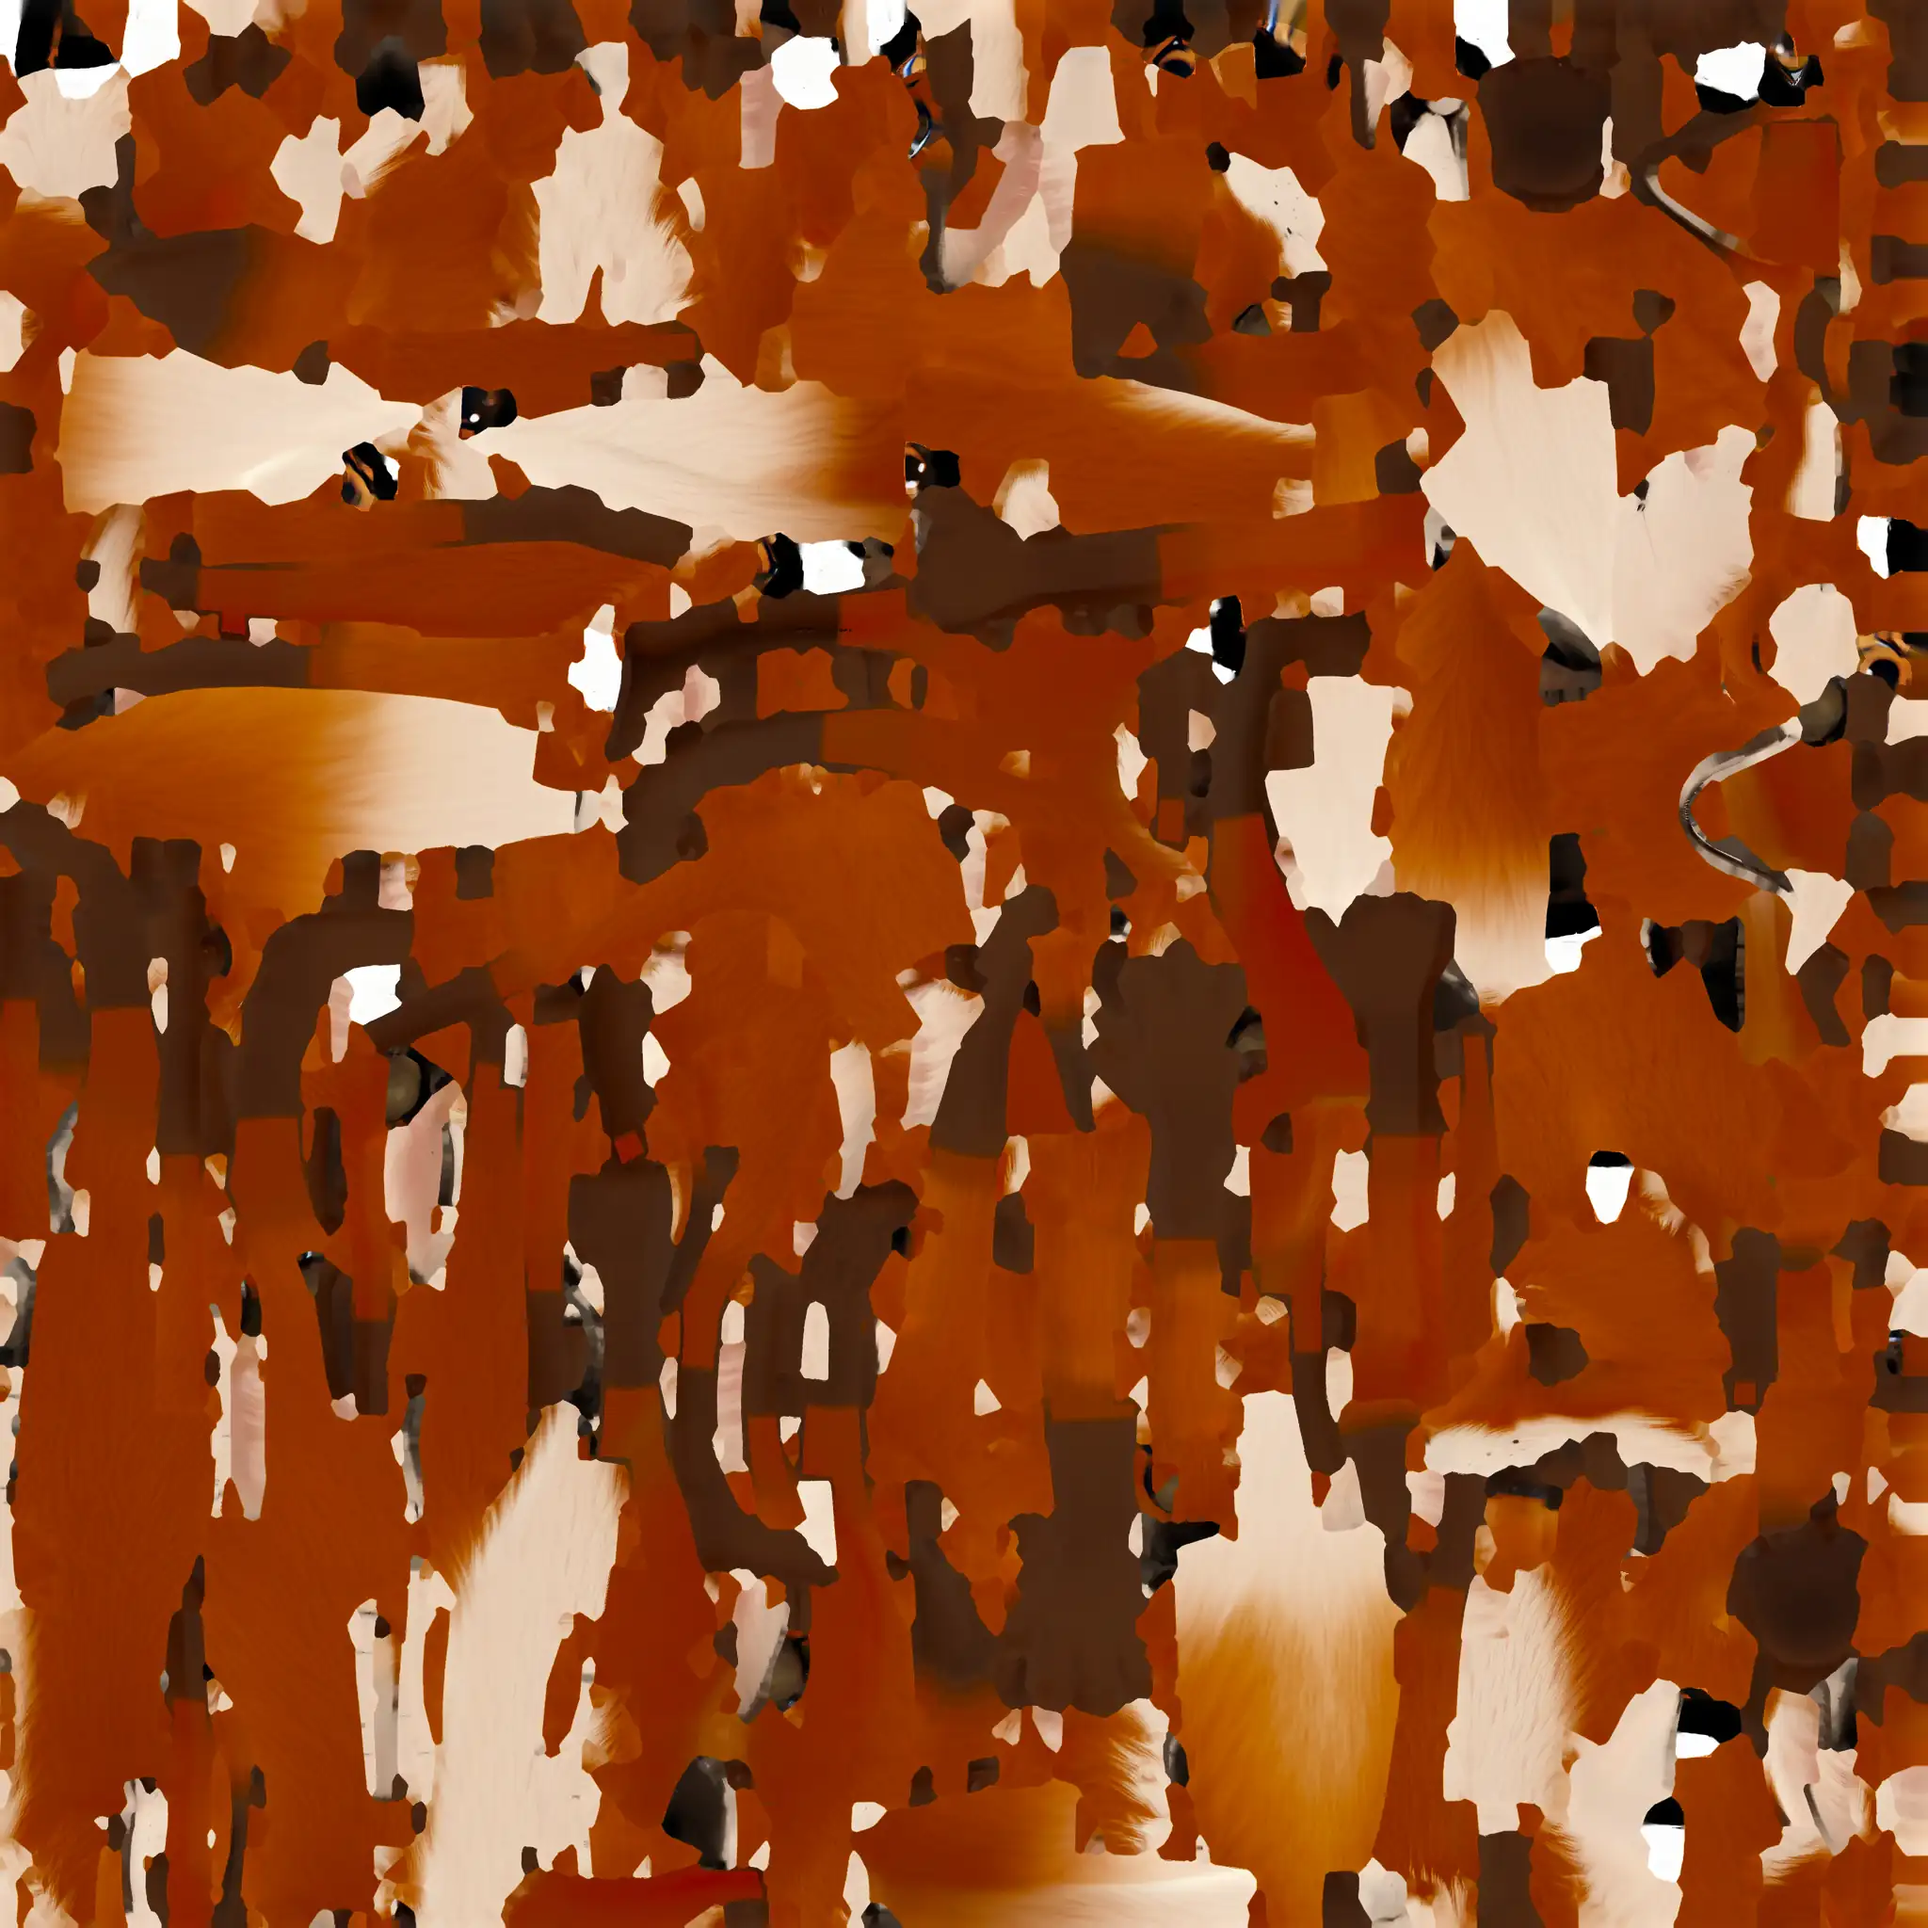
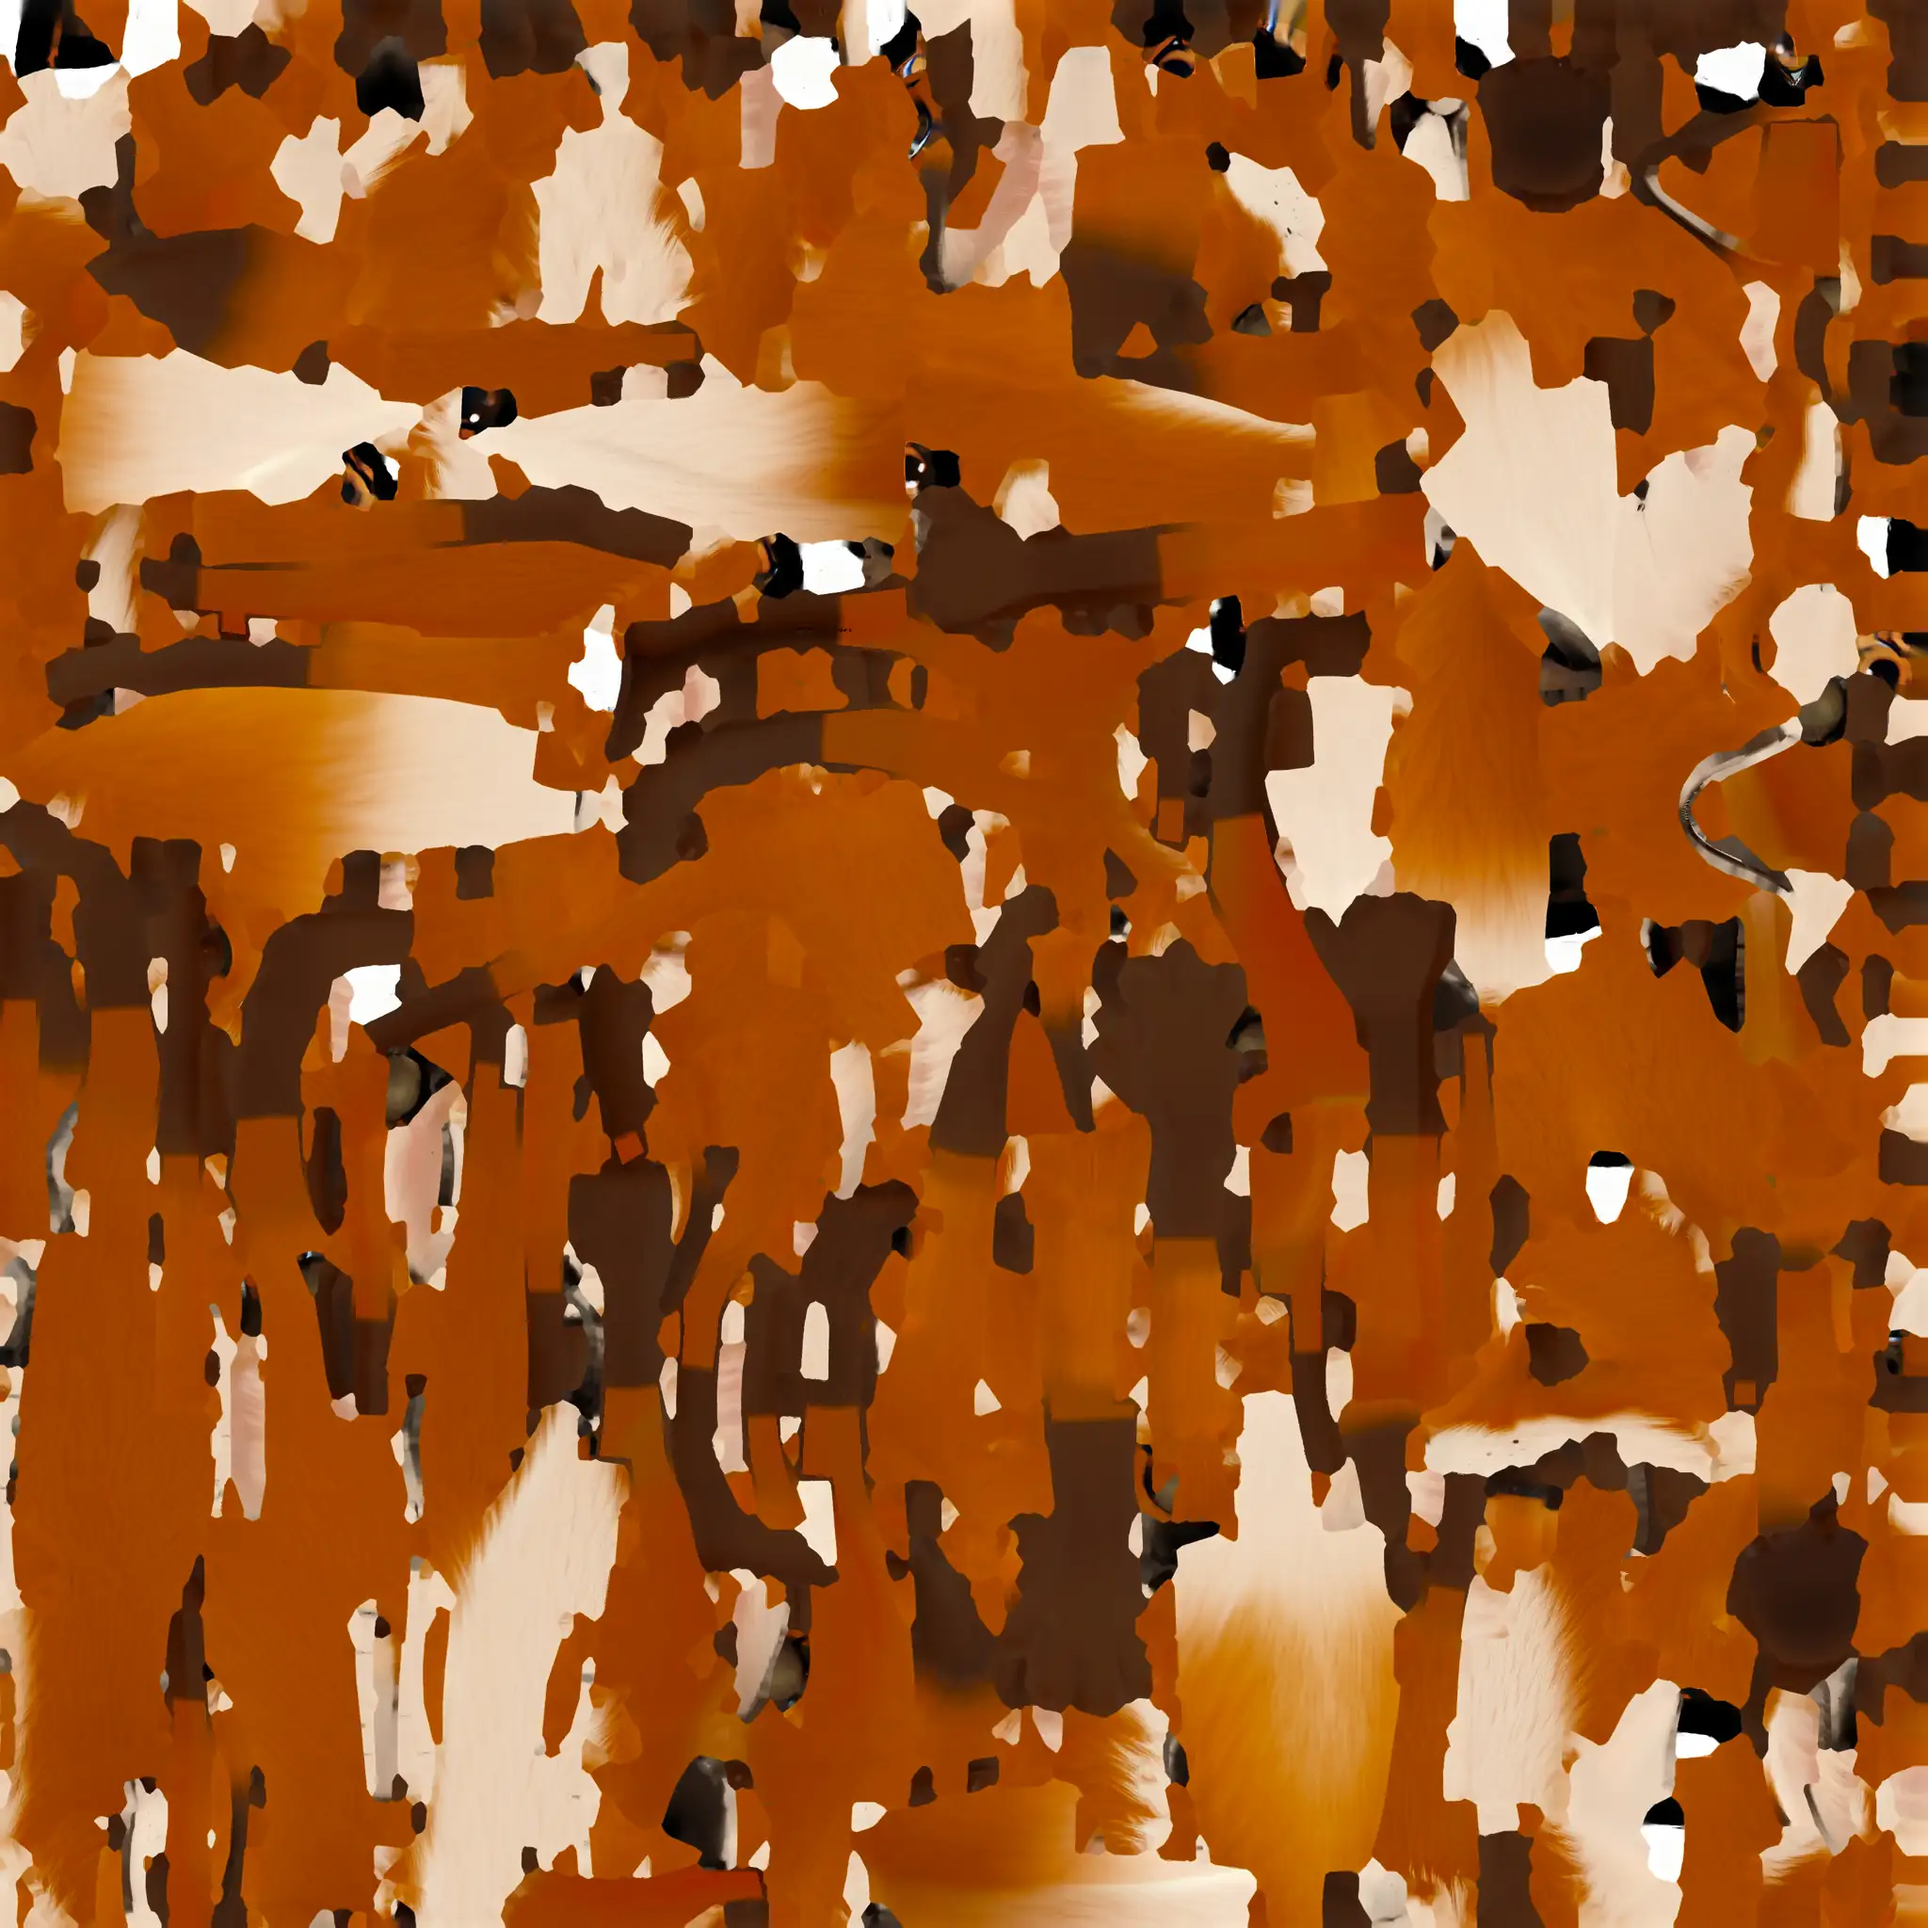
fix(tools): make the red fox fur bright orange in the hall light
In the hall view of the app (the key light from the back, no fill
light), the orange fur of the red fox read brown: the median of the
chest side, the upper arm, the thigh, and the head top was L 0.512,
C 0.130, h 37.4, against L 0.561, C 0.134, h 40.0 on the fox of main.
In the 3/4 view with the fill light it was L 0.513, C 0.128, h 37.7,
against L 0.555, C 0.131, h 40.3. Both views were darker and redder
than main, so one target serves both.

RED_FUR goes from Oklab (0.42, 0.15, 52) to (0.485, 0.155, 58). The
hall view now gives L 0.562, C 0.128, h 41.5, and the 3/4 view L 0.568,
C 0.127, h 41.7. The target L 0.47 gave L 0.549 in the hall. A larger
chroma has no effect, because the target lies just outside the sRGB
gamut. The tan map stays byte-identical.

Changed region(s): [[0.6562, 0.4375, 0.7188, 0.5312], [0.3125, 0.9688, 0.4062, 1.0]]

diff --git a/tools/fox-maps.py b/tools/fox-maps.py
@@ -4,11 +4,12 @@
 # moves each texel in Oklab by a step. In the red map, the orange fur goes to the red-orange of the
 # main fox in the app light. In the tan map, the orange fur goes to the tan fur of the main fox in
 # the app light, and the dark socks go to the tan accent of SPECIES_COLORS of src/models/colors.ts
-# at the lightness of the tan palette of the faces. In both maps the cream belly, the white, and the black keep their colors. Each texel
-# takes a mix of the steps of the colors, by its nearness to each color, so the blend between two
-# colors of the fur stays smooth. The texels of the eyeballs keep their colors: the script reads
-# their triangles and texture points from the rig file (`ownEyes` of the export). The output
-# depends only on the input files.
+# at the lightness of the tan palette of the faces. In both maps the cream belly, the white, and
+# the black keep their colors, the brow spots take the fur around them, and each leg and forearm
+# gets a sharp sock edge. Each texel takes a mix of the steps of the colors, by its nearness to
+# each color, so the blend between two colors of the fur stays smooth. The texels of the eyeballs
+# keep their colors: the script reads their triangles and texture points from the rig file
+# (`ownEyes` of the export). The output depends only on the input files.
 #
 # Usage: uv run --no-project --with numpy==2.5.4 --with pillow==13.0.0 python -I tools/fox-maps.py
 import json
@@ -24,12 +25,14 @@ FOLDER = 'assets/models/fox/tripo-hand/'
 SIZE = 2048
 QUALITY = 60
 
-#: The Oklab lightness, chroma, and hue (degrees) of the orange fur of the red map. The source
-#: orange (L 0.638, C 0.172, h 47) is lighter than the shifted fur of the fox of main (L 0.557,
-#: C 0.171, h 43.7), and the smooth body takes more light than the faces of the main fox. In the
-#: seated 3/4 app view (`close-views play --at fox-red --azimuth 35`), this target gives the median
-#: fur L 0.522, C 0.130, h 37.2, against L 0.521, C 0.131, h 38.7 on the fox of main.
-RED_FUR = (0.42, 0.15, 52.0)
+#: The Oklab lightness, chroma, and hue (degrees) of the orange fur of the red map. The hall view
+#: of the app (the key light from the back, no fill light) is the target, because there the fur
+#: read brown with a darker target. The median fur of the chest side, the upper arm, the thigh,
+#: and the head top in that view is L 0.562, C 0.128, h 41.5, against L 0.561, C 0.134, h 40.0 on
+#: the fox of main. In the seated 3/4 view with the fill light (`close-views play --at fox-red
+#: --azimuth 35 --zoom 1.3`), it is L 0.568, C 0.127, h 41.7, against L 0.555, C 0.131, h 40.3.
+#: The target lies a little outside the sRGB gamut, so a larger chroma moves no texel further.
+RED_FUR = (0.485, 0.155, 58.0)
 #: The Oklab lightness, chroma, and hue (degrees) of the orange fur of the tan map. The light of
 #: the app makes the fur darker and warmer than the map. In the 3/4 app view of the tan fox
 #: (`close-views play --demo mozart-k315 --at fox-tan --azimuth 35 --zoom 1.3 --time 6`), this
